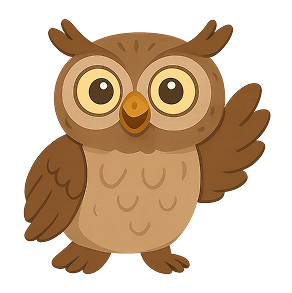
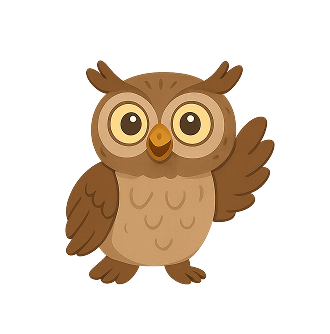
[fix] 커스터마이징 사진 비율 수정

diff --git a/frontend/src/pages/DiagnosisVer2.js b/frontend/src/pages/DiagnosisVer2.js
@@ -17,22 +17,22 @@ const faceItems = [
   {
     itemImg: itemHeadband,
     name: "머리띠",
-    style: { top: "-10%", left: "27%", width: "37%" }, // 세부 위치 조정
+    style: { top: "4%", left: "36%", width: "25%" }, // 세부 위치 조정
   },
   {
     itemImg: itemHat,
     name: "모자",
-    style: { top: "-10%", left: "30%", width: "40%" },
+    style: { top: "3%", left: "38%", width: "28%" },
   },
   {
     itemImg: itemGlasses,
     name: "안경",
-    style: { top: "0%", left: "15%", width: "63%" },
+    style: { top: "10%", left: "24%", width: "50%" },
   },
   {
     itemImg: itemCrown,
     name: "왕관",
-    style: { top: "-7%", left: "32%", width: "30%" },
+    style: { top: "5%", left: "37%", width: "25%" },
   },
 ];
 
@@ -40,22 +40,22 @@ const clothItems = [
   {
     itemImg: itemTie,
     name: "넥타이",
-    style: { top: "108px", left: "70px", width: "80px" },
+    style: { top: "38%", left: "37%", width: "25%" },
   },
   {
     itemImg: itemBadge,
     name: "뱃지",
-    style: { top: "120px", left: "110px", width: "20%" },
+    style: { top: "125px", left: "48%", width: "15%" },
   },
   {
     itemImg: itemBag,
     name: "가방",
-    style: { top: "140px", left: "-12px", width: "80px" },
+    style: { top: "140px", left: "13%", width: "25%" },
   },
   {
     itemImg: itemRibbon,
     name: "리본",
-    style: { top: "92px", left: "80px", width: "60px" },
+    style: { top: "35%", left: "39%", width: "20%" },
   },
 ];
 
@@ -89,12 +89,40 @@ function DiagnosisPage() {
   const handleCapture = async () => {
     const avatarElement = document.querySelector(`.${styles.avatarLayerWrap}`);
     if (avatarElement) {
+      const scale = 2;
+      const targetWidth = 250 * scale;
+      const targetHeight = 300 * scale;
+
+      // 1. 너비는 고정하고, 높이는 원본 크기대로 캡처
       const canvas = await html2canvas(avatarElement, {
-        width: 400, // 원하는 캡처 너비(px)
-        height: 400, // 원하는 캡처 높이(px)
-        scale: 2, // 해상도 배율 (2면 2배로 선명하게)
+        width: 250,
+        height: 300,
+        scale: scale,
+        backgroundColor: null, // 배경 투명
       });
-      const imgData = canvas.toDataURL("image/png");
+
+      // 2. 캡처된 캔버스를 위쪽 기준으로 크롭 (머리 잘림 방지)
+      const sourceY = -50;
+
+      const croppedCanvas = document.createElement("canvas");
+      croppedCanvas.width = targetWidth;
+      croppedCanvas.height = targetHeight;
+      const ctx = croppedCanvas.getContext("2d");
+
+      // drawImage(image, sx, sy, sWidth, sHeight, dx, dy, dWidth, dHeight)
+      ctx.drawImage(
+        canvas,
+        0, // sx
+        sourceY, // sy
+        targetWidth, // sWidth
+        targetHeight, // sHeight
+        0, // dx
+        0, // dy
+        targetWidth, // dWidth
+        targetHeight // dHeight
+      );
+
+      const imgData = croppedCanvas.toDataURL("image/png");
       // 완성한 부엉이 이미지 다운로드 (백엔드에 전송 예정)
       const link = document.createElement("a");
       link.href = imgData;
@@ -104,7 +132,7 @@ function DiagnosisPage() {
       document.body.removeChild(link);
       setTimeout(() => {
         navigate("/diagnosisEnd");
-      }, 800);
+      }, 600);
     } else {
       navigate("/diagnosisEnd");
     }

diff --git a/frontend/src/pages/DiagnosisEnd.module.css b/frontend/src/pages/DiagnosisEnd.module.css
@@ -31,9 +31,9 @@
 }
 
 .avatarBox {
-  background: #fff;
+  /* background: #fff; */
   border-radius: 24px;
-  border: 4px solid #fff;
+  border: 10px solid #fff;
   padding: 32px;
   margin-bottom: 32px;
   box-shadow: 0 4px 16px rgba(0, 0, 0, 0.08);
@@ -45,7 +45,7 @@
 
 .avatarImg {
   width: 200px;
-  height: 250px;
+  height: 240px;
 }
 
 .button {
